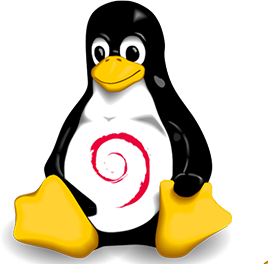
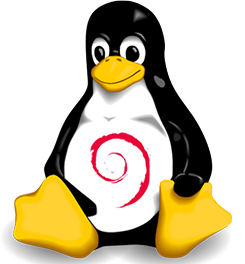
Distribuciones
Arreglos de tamalño de imagen e incorporacion de texto

diff --git a/public/index.html b/public/index.html
@@ -59,24 +59,27 @@
 		<!-- Cuarta sección de navegación -->
 		<div class="text22">distribuciones</div>
 		<div class="text23"> GNU/Linux es una distribución de software basada en el núcleo Linux <br>que incluye determinados paquetes de software para satisfacer las <br>necesidades de un grupo específico de usuarios, dando así origen a <br>ediciones domésticas, empresariales y para servidores.</div>
-		<div style="position:absolute; top:3600px; left:20%; visibility:visible">
+		<div style="position:absolute; top:3560px; left:20%; visibility:visible">
 			<img height="243px" SRC="predhat.png" width="292px">
 		</div>
-		<div style="position:absolute; top:3600px; left:40%; visibility:visible">
+		<div style="position:absolute; top:3560px; left:40%; visibility:visible">
 			<img height="263px" SRC="pubuntu.png" width="231px">
 		</div>
-		<div style="position:absolute; top:3600px; left:60%; visibility:visible">
+		<div style="position:absolute; top:3560px; left:60%; visibility:visible">
 			<img height="238px" SRC="psuse.png" width="263px">
 		</div>
-		<div style="position:absolute; top:4000px; left:20%; visibility:visible">
-			<img height="263px" SRC="pfedora.png" width="269px">
+		<div style="position:absolute; top:3840px; left:20%; visibility:visible">
+			<img height="244px" SRC="pfedora.png" width="263px">
 		</div>
-		<div style="position:absolute; top:4000px; left:40%; visibility:visible">
+		<div style="position:absolute; top:3840px; left:40%; visibility:visible">
 			<img height="246px" SRC="pmandriva.png" width="282px">
 		</div>
-		<div style="position:absolute; top:4000px; left:60%; visibility:visible">
-			<img height="264px" SRC="pdebian.png" width="268px">
+		<div style="position:absolute; top:3840px; left:60%; visibility:visible">
+			<img height="264px" SRC="pdebian.png" width="245px">
 		</div>
+		<div class="text24">red - hat</div>
+		<div class="text25">Multinacional estadounidense de software que provee software de código abierto <br>principalmente a empresas. Fundada en 1993 con oficinas satélite en todo el mundo.</div>
+		<div class="text26">Red Hat es conocida en gran medida por su sistema operativo empresarial Red Hat <br>Enterprise Linux y por la adquisición del proveedor de middleware empresarial de <br>código abierto JBoss. Red Hat proporciona almacenamiento, plataformas de sistemas <br>operativos, middleware, aplicaciones, productos de administración y servicios de <br>soporte, capacitación y consultoría.</div>
 
 		<!-- Pie de Pagina -->
 		<div class="text40">daniela cabezas tapia <br> daniela.cabezas.t@mail.pucv.cl</div>

diff --git a/public/style.css b/public/style.css
@@ -209,6 +209,33 @@ body {
     font-size: 18px;
     text-align: right;
 }
+.text24{
+    position:absolute;
+    left: 25%;
+    top: 4200px;
+    color: #FEC517;
+    font-weight: normal;
+    font-size: 18px;
+    text-transform: uppercase;
+}
+.text25{
+    position:absolute;
+    left: 25%;
+    top: 4250px;
+    color: #ffffff;
+    font-weight: normal;
+    font-size: 18px;
+    line-height: 7mm;
+}
+.text26{
+    position:absolute;
+    left: 25%;
+    top: 4330px;
+    color: #ffffff;
+    font-weight: normal;
+    font-size: 18px;
+    line-height: 7mm;
+}
 /* Fin cuarta sección de navegación */
 
 .text40{
